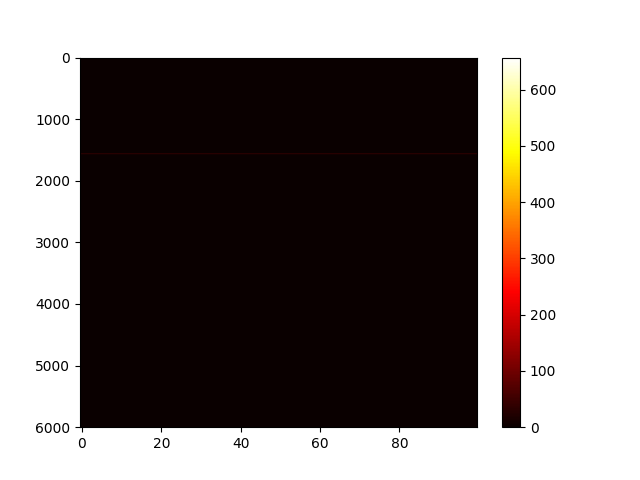
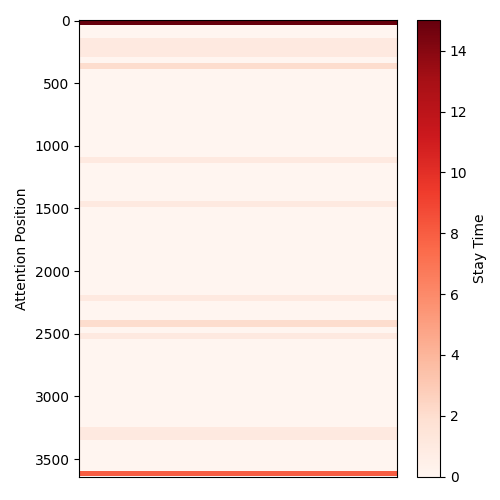
実務演習＿最終版”

diff --git a/static/lpanalysis/js/datacollect.js b/static/lpanalysis/js/datacollect.js
@@ -1,10 +1,15 @@
 const csrftoken = "{{ csrf_token }}";
 
+
+
 let jsonString = localStorage.getItem('clickData');
 let clickData = jsonString ? JSON.parse(jsonString) : {};
 
 let attentionInterval = 1000; // 1秒ごとにチェック
 let rangeSize = 1; // ピクセルごとに区切る
+
+
+
 
 // ページロード時に既存のデータをローカルストレージから読み込む
 jsonString = localStorage.getItem('attentionData');
@@ -17,7 +22,7 @@ let maxScrollPosition = 0;
 
 // スクロールイベントのリスニング
 window.addEventListener('scroll', function() {
-    let scrollPosition = window.scrollY;
+    let scrollPosition = window.pageYOffset;
     if(scrollPosition > maxScrollPosition) {
         maxScrollPosition = scrollPosition;
         if(scrollData[scrollPosition]) {
@@ -31,7 +36,7 @@ window.addEventListener('scroll', function() {
 // クリックイベントのリスニング
 window.addEventListener('click', function(event) {
     // クリック位置を文字列で表現
-    let clickPosition = `${event.clientX},${event.clientY}`;
+    let clickPosition = `${event.pageX},${event.pageY}`;
 
     // クリック位置のデータを追加
     if(clickData[clickPosition]) {
@@ -43,7 +48,7 @@ window.addEventListener('click', function(event) {
 
 function increaseStayTime() {
     if (document.hasFocus()) {  // <- 追加：ウェブページがフォーカスされている時だけ滞在時間を増やす
-        let scrollPosition = Math.floor(window.scrollY / rangeSize) * rangeSize;
+        let scrollPosition = window.scrollY;
         if(attentionData[scrollPosition]) {
             attentionData[scrollPosition] += attentionInterval / 1000;
         } else {

diff --git a/lpanalysis/templates/lpanalysis/top.html b/lpanalysis/templates/lpanalysis/top.html
@@ -1,0 +1,33 @@
+{% load static %}
+
+<!doctype html>
+<html>
+<head>
+<meta charset="UTF-8">
+<meta name="viewport" content="width=device-width, initial-scale=1">
+    <title>LP分析</title>
+<meta name="keywords" content="">
+<meta name="description" content="">
+<link rel="icon" type="image/png" href="img/favicon.png">
+<link rel="stylesheet" media="all" href="{% static 'lpanalysis/css/style.css' %}" />
+<link rel="stylesheet" media="all" href="{% static 'lpanalysis/css/ress.min.css' %}" />
+<script src="{% static 'lpanalysys/js/jquery-3.6.0.min.js' %}"></script>
+<script src="{% static 'lpanalysis/js/style.js' %}"></script>
+	
+<!-- Favicon -->
+<link rel="icon" type="image/png" href="img/favicon.png">
+    
+</head>
+<body>
+<h1>LP分析ツール</h1>
+
+<h2><a href="{% url 'index' %}">分析するページ</a></h2>
+
+<h3><a href="{% url 'a-heatmap' %}">アテンションヒートマップ</a></h3>
+<h3><a href="{% url 's-heatmap' %}">スクロールヒートマップ</a></h3>
+<h3><a href="{% url 'c-heatmap' %}">クリックヒートマップ</a></h3>
+
+    
+    
+</body>
+</html>

diff --git a/lpanalysis/templates/lpanalysis/index.html b/lpanalysis/templates/lpanalysis/index.html
@@ -217,8 +217,13 @@
 
 
     <script src="{% static 'lpanalysis/js/datacollect.js' %}"></script>
+    <!-- <script>window.addEventListener('load', function() {
+      localStorage.clear();
+  });
+  </script>
+     -->
     
     
-    
+  
 </body>
 </html>

diff --git a/lpanalysis/templates/lpanalysis/s-heatmap.html b/lpanalysis/templates/lpanalysis/s-heatmap.html
@@ -5,6 +5,7 @@
   <title>Heatmap</title>
 </head>
 <body>
-  <img src="{% static 'attentionheatmap.png' %}" alt="Heatmap">
+<h1>スクロールヒートマップ</h1>
+  <img src="{% static 'scrollheatmap.png' %}" alt="Heatmap">
 </body>
 </html>

diff --git a/lpanalysis/templates/lpanalysis/a-heatmap.html b/lpanalysis/templates/lpanalysis/a-heatmap.html
@@ -1,0 +1,11 @@
+{% load static %}
+<!DOCTYPE html>
+<html>
+<head>
+  <title>Heatmap</title>
+</head>
+<body>
+  <h1>アテンションヒートマップ</h1>
+  <img src="{% static 'attentionheatmap.png' %}" alt="Heatmap">
+</body>
+</html>

diff --git a/lpanalysis/templates/lpanalysis/c-heatmap.html b/lpanalysis/templates/lpanalysis/c-heatmap.html
@@ -1,0 +1,11 @@
+{% load static %}
+<!DOCTYPE html>
+<html>
+<head>
+  <title>Heatmap</title>
+</head>
+<body>
+  <h1>クリックヒートマップ</h1>
+  <img src="{% static 'clickheatmap.png' %}" alt="Heatmap">
+</body>
+</html>

diff --git a/lpanalysis/views.py b/lpanalysis/views.py
@@ -8,8 +8,13 @@ import matplotlib.pyplot as plt
 import numpy as np
 import os
 from LPheatmap import settings
+import matplotlib.colors as mcolors
+from collections import defaultdict
 
 
+
+class Top(TemplateView):
+    template_name = "lpanalysis/top.html"
 
 
 class Index(TemplateView):
@@ -20,71 +25,175 @@ class Index(TemplateView):
     
 
 
-    #attentionDataを主審するためのビュー
+    #attentionDataを受信するためのビュー
 @csrf_exempt
 def receive_attention_data(request):
             if request.method == 'POST':
-                data = json.loads(request.body)
-                for attention_position, stay_time in data.items():
-                    attention_data = AttentionData(attention_position= attention_position,stay_time = stay_time)
-                    attention_data.save()
+                new_data = json.loads(request.body)
 
+                
+                for position, time in new_data.items():                    
+                    attention_data = AttentionData.objects.filter(attention_position = position).first()
+                    if attention_data is not None:
+                        attention_data.stay_time = time
+                    else:
+                        attention_data = AttentionData(attention_position = position,stay_time = time)
+                    attention_data.save()
         
-                return JsonResponse(data)
+                return JsonResponse("ok")
             else:
                 return JsonResponse({"error": "Invalid request method"}, status=400)
 
-#scrollDataを主審するためのビュー
+#scrollDataを受信、保存するためのビュー
 @csrf_exempt
 def receive_scroll_data(request):
         if request.method == 'POST':
             data = json.loads(request.body)
+            
             for position, count in data.items():
-                scroll_data = ScrollData(max_scroll_position = position,max_scroll_count = count)
-                scroll_data.save()
+                scroll_data = ScrollData.objects.filter(max_scroll_position = position).first()
+                if scroll_data is not None:
+                    scroll_data.max_scroll_count = count
+                else:
+                    scroll_data =  ScrollData(max_scroll_position = position, max_scroll_count = count)
                 
-        
+                scroll_data.save()
        
             return JsonResponse({"message": "Data received successfully"})
         else:
             return JsonResponse({"error": "Invalid request method"}, status=400)
 
 
-#clickDataを主審するためのビュー
+#clickDataを受信、保存するためのビュー
 @csrf_exempt
 def receive_click_data(request):
     if request.method == 'POST':
         data = json.loads(request.body)
-        click_data_instances = []
-        for click_position, click_count in data.items():
-            x, y = map(int, click_position.split(','))
-            click_data = ClickData(click_position_x=x, click_position_y=y, click_count=click_count)
-            click_data_instances.append(click_data)
-        ClickData.objects.bulk_create(click_data_instances)
+        
+        for position, count in data.items():
+            x,y = map(int,position.split(","))
+            click_data = ClickData.objects.filter(click_position_x = x,click_position_y =y).first()
+            if click_data is not None:
+                click_data.click_count = count
+            else:
+                click_data = ClickData(click_position_x = x,click_position_y =y,click_count =count )
+            click_data.save()
+            
+           
         return JsonResponse({"message": "Data received successfully"})
     else:
         return JsonResponse({"error": "Invalid request method"}, status=400)
 
 
+#アテンションヒートマップを作成するビュー
 def heatmap_view(request):
-    data = AttentionData.objects.values_list('attention_position', 'stay_time')
-
+    attention_data = AttentionData.objects.all()
+    attention_dict = defaultdict(int)
     
-    stay_time_data = np.zeros(6001)
-    for pos, time in data:
-        stay_time_data[pos] = time
-    print(stay_time_data[0:5])
+    max_attention_position = max(record.attention_position for record in attention_data)
 
+    for record in attention_data:
+        interval = record.attention_position // 50
+        attention_dict[interval] += record.stay_time
 
-    stay_time_data_2d = np.tile(stay_time_data, (100, 1)).T  # 100は横軸の長さで、実際のウェブページの幅に合わせて変更する必要があります。
+    heatmap = np.zeros((max_attention_position+1, 1))
 
-    # ヒートマップの描画
-    plt.imshow(stay_time_data_2d, cmap='hot', aspect='auto')
+    for interval, time in attention_dict.items():
+        start = interval * 50
+        end = start + 50
+        heatmap[start:end, 0] = time
 
-    save_path = os.path.join(os.path.join(settings.BASE_DIR, "static"), 'attentionheatmap.png')
+    plt.figure(figsize=(5, 5))
+    
+    vmin = np.min(heatmap)
+    vmax = np.max(heatmap)
+    
+    plt.imshow(heatmap, cmap='Reds', interpolation='nearest', aspect='auto', vmin=vmin, vmax=vmax)
+    plt.colorbar(label='Stay Time')
+    plt.ylabel("Attention Position")
+    plt.xticks([])  
+
+    save_path = os.path.join(settings.BASE_DIR, "static", 'attentionheatmap.png')
+    plt.tight_layout()
     plt.savefig(save_path)
-   
-    
-    
+    plt.close()  
 
-    return render(request, 'lpanalysis/heatmap.html')
+    return render(request, 'lpanalysis/a-heatmap.html')
+
+
+
+#クリックヒートマップを作成するビュー
+def click_heatmap_view(request):
+    click_data = ClickData.objects.all()
+
+    click_dict = defaultdict(int)
+
+    max_click_position_x = max(record.click_position_x for record in click_data)
+    max_click_position_y = max(record.click_position_y for record in click_data)
+
+    for record in click_data:
+        interval_x = record.click_position_x // 50
+        interval_y = record.click_position_y // 50
+        click_dict[(interval_y, interval_x)] += record.click_count
+
+    heatmap = np.zeros((max_click_position_y+1, max_click_position_x+1))  # <- 修正された部分
+
+    for (interval_y, interval_x), count in click_dict.items():
+        start_x = interval_x * 50
+        end_x = start_x + 50
+        start_y = interval_y * 50
+        end_y = start_y + 50
+        heatmap[start_y:end_y, start_x:end_x] = count  # <- 修正された部分
+
+
+    plt.figure(figsize=(5, 5))
+    
+    vmin = np.min(heatmap)
+    vmax = np.max(heatmap)
+    
+    plt.imshow(heatmap, cmap='Reds', interpolation='nearest', aspect='auto', vmin=vmin, vmax=vmax)
+    plt.colorbar(label='Click Count')
+
+    save_path = os.path.join(settings.BASE_DIR, "static", 'clickheatmap.png')
+    plt.tight_layout()
+    plt.savefig(save_path)
+    plt.close()
+
+    return render(request, 'lpanalysis/c-heatmap.html')
+
+
+#スクロールヒートマップを作成するビュー
+def scroll_heatmap_view(request):
+    
+    scroll_data = ScrollData.objects.all()
+    scroll_dict = defaultdict(int)
+    
+    max_scroll_position = max(record.max_scroll_position for record in scroll_data)
+
+    for record in scroll_data:
+        interval = record.max_scroll_position // 50
+        scroll_dict[interval] += record.max_scroll_count
+
+    heatmap = np.zeros((max_scroll_position+1, 1))
+
+    for interval, count in scroll_dict.items():
+        start = interval * 50
+        end = start + 50
+        heatmap[start:end, 0] = count
+
+    plt.figure(figsize=(5, 5))
+    
+    vmin = np.min(heatmap)
+    vmax = np.max(heatmap)
+    
+    plt.imshow(heatmap, cmap='Reds', interpolation='nearest', aspect='auto', vmin=vmin, vmax=vmax)
+    plt.colorbar(label='count')
+    plt.ylabel("max_scroll_position")
+    plt.xticks([])  
+
+    save_path = os.path.join(settings.BASE_DIR, "static", 'scrollheatmap.png')
+    plt.tight_layout()
+    plt.savefig(save_path)
+    plt.close()  
+
+    return render(request, 'lpanalysis/s-heatmap.html')

diff --git a/lpanalysis/urls.py b/lpanalysis/urls.py
@@ -3,12 +3,14 @@ from django.views.generic import TemplateView
 from . import views
 
 urlpatterns = [
-    path("",views.Index.as_view(), name="Index"),
-
+    path("",views.Top.as_view(), name="top"),
+    path("index",views.Index.as_view(), name="index"),
     path("receive-attention-data",views.receive_attention_data, name="receive-attention-data"),
     path("receive-scroll-data",views.receive_scroll_data, name="receive-scroll-data"),
     path("receive-click-data",views.receive_click_data, name="receive-click-data"),
-    path("create-heatmap",views.heatmap_view, name="create-heatmap"),
+    path("a-heatmap",views.heatmap_view, name="a-heatmap"),
+    path("c-heatmap",views.click_heatmap_view, name="c-heatmap"),
+    path("s-heatmap",views.scroll_heatmap_view, name="s-heatmap"),
 
     
 
